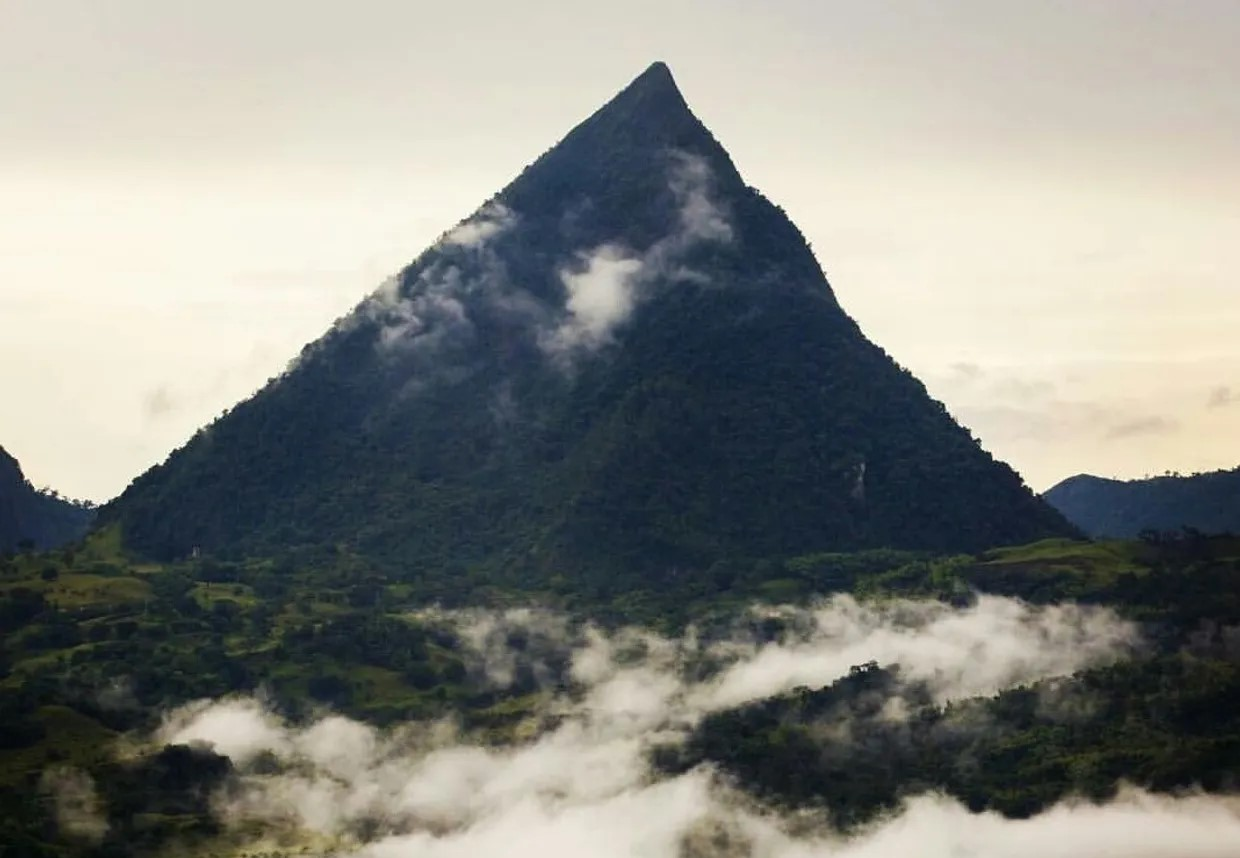
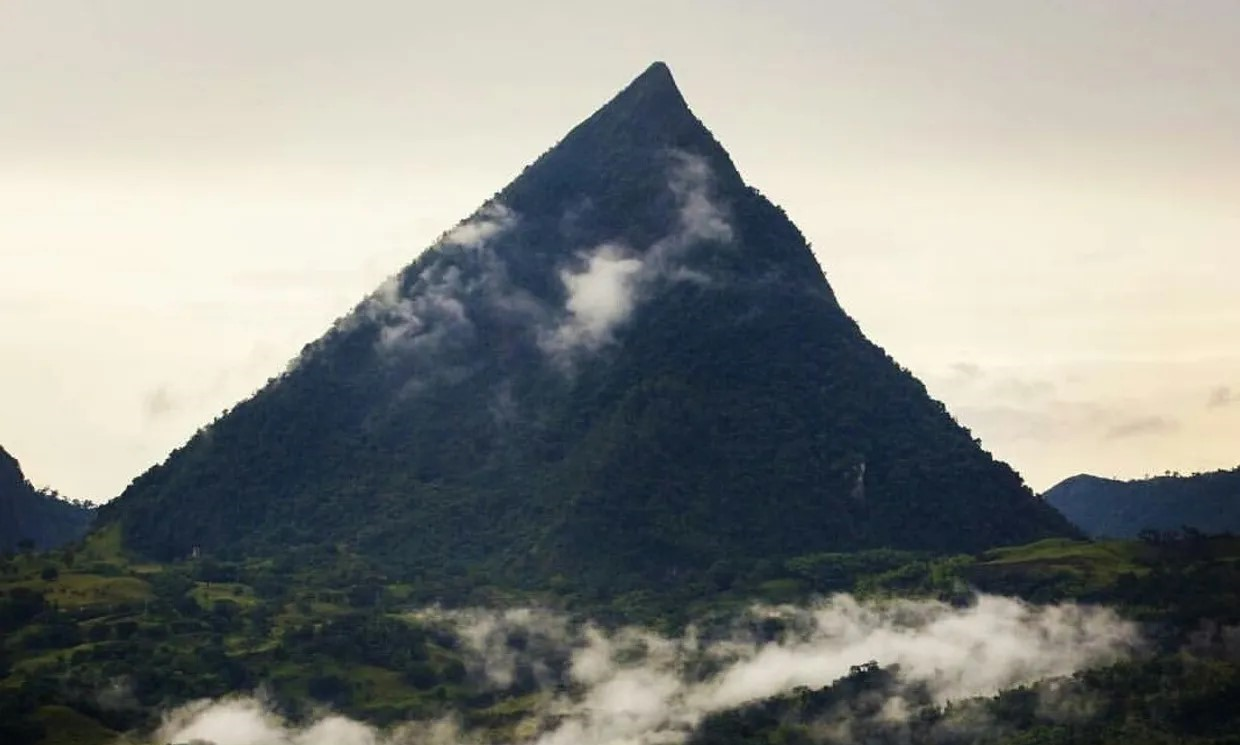
actualizar naturaleza

diff --git a/naturaleza.html b/naturaleza.html
@@ -222,7 +222,7 @@
                   <div class="col-md-12">
                      <div class="owl-carousel owl-theme">
                         <div class="item">
-                           <img class="img-responsive" src="./img/naturaleza/sen1.webp" alt="#" width="600px" height="450px"/>
+                           <img class="img-responsive" src="./img/naturaleza/sen1.jpg" alt="#" />
                            <h3>Cerro Tusa</h3>
                            <p>Es una de las pirámides más grandes del mundo, ubicada en el municipio de Venecia en el suroeste antioqueño. 
                               Esta es una experiencia cargada de la mágia natural que emana de esta montaña sagrada.  </p>
